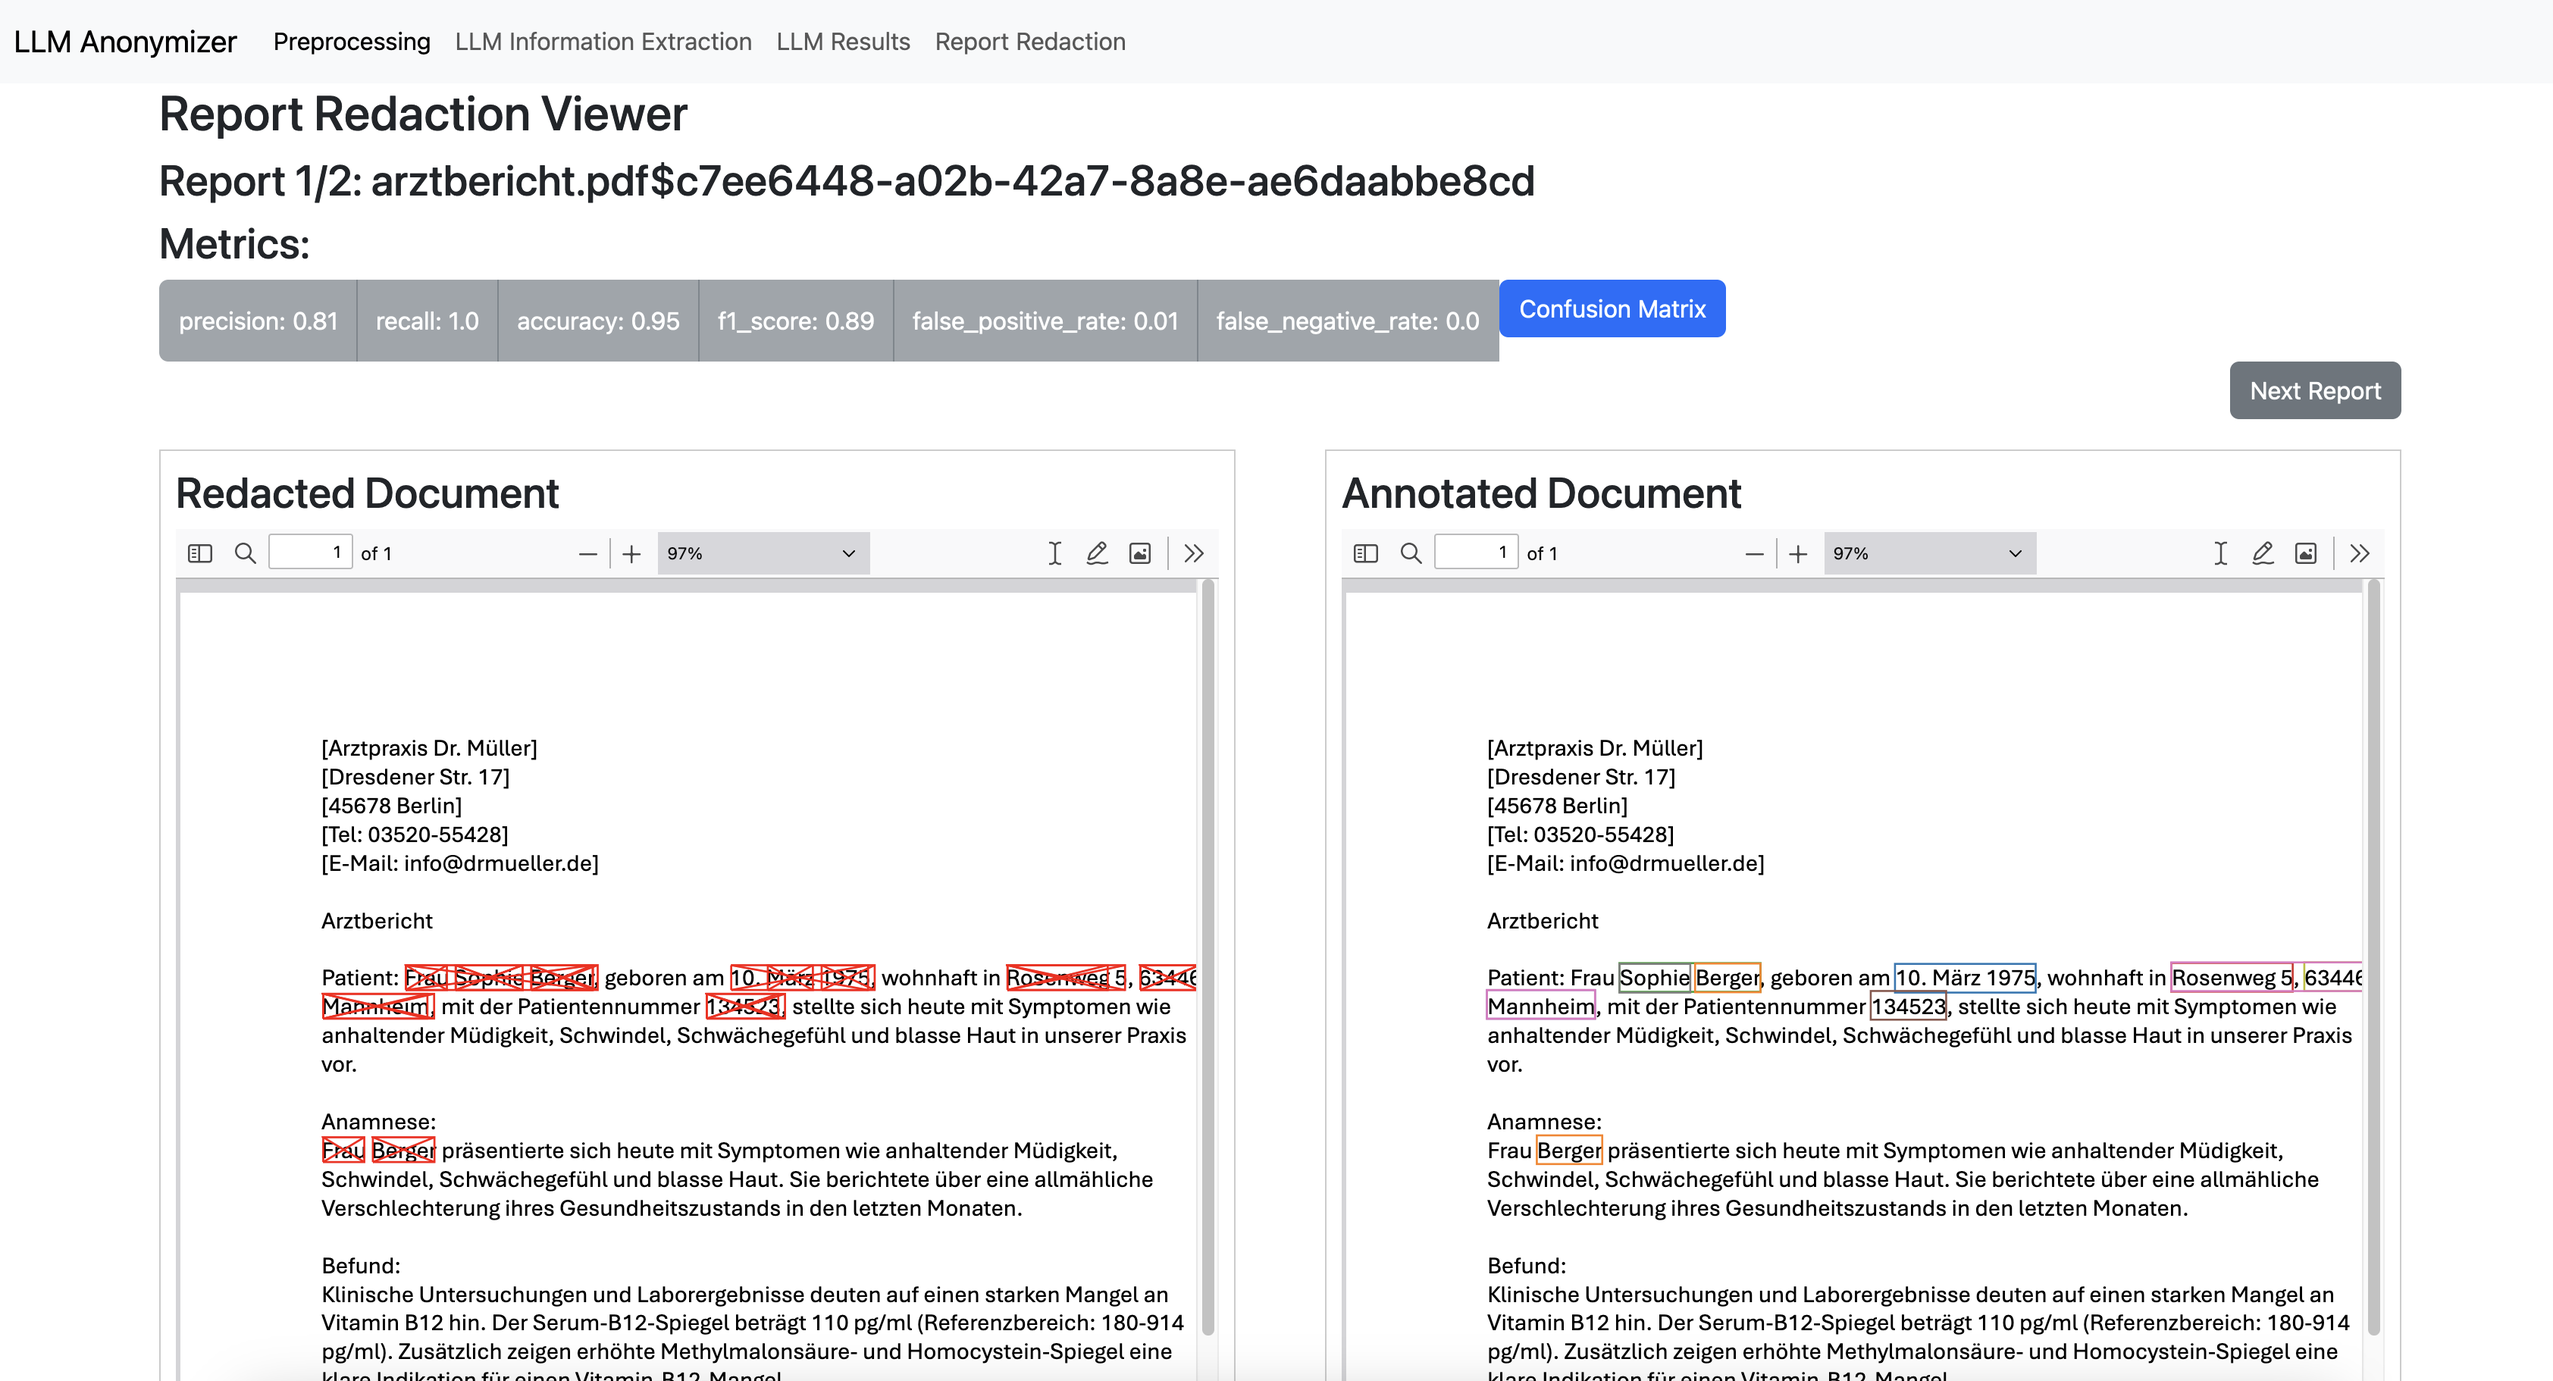
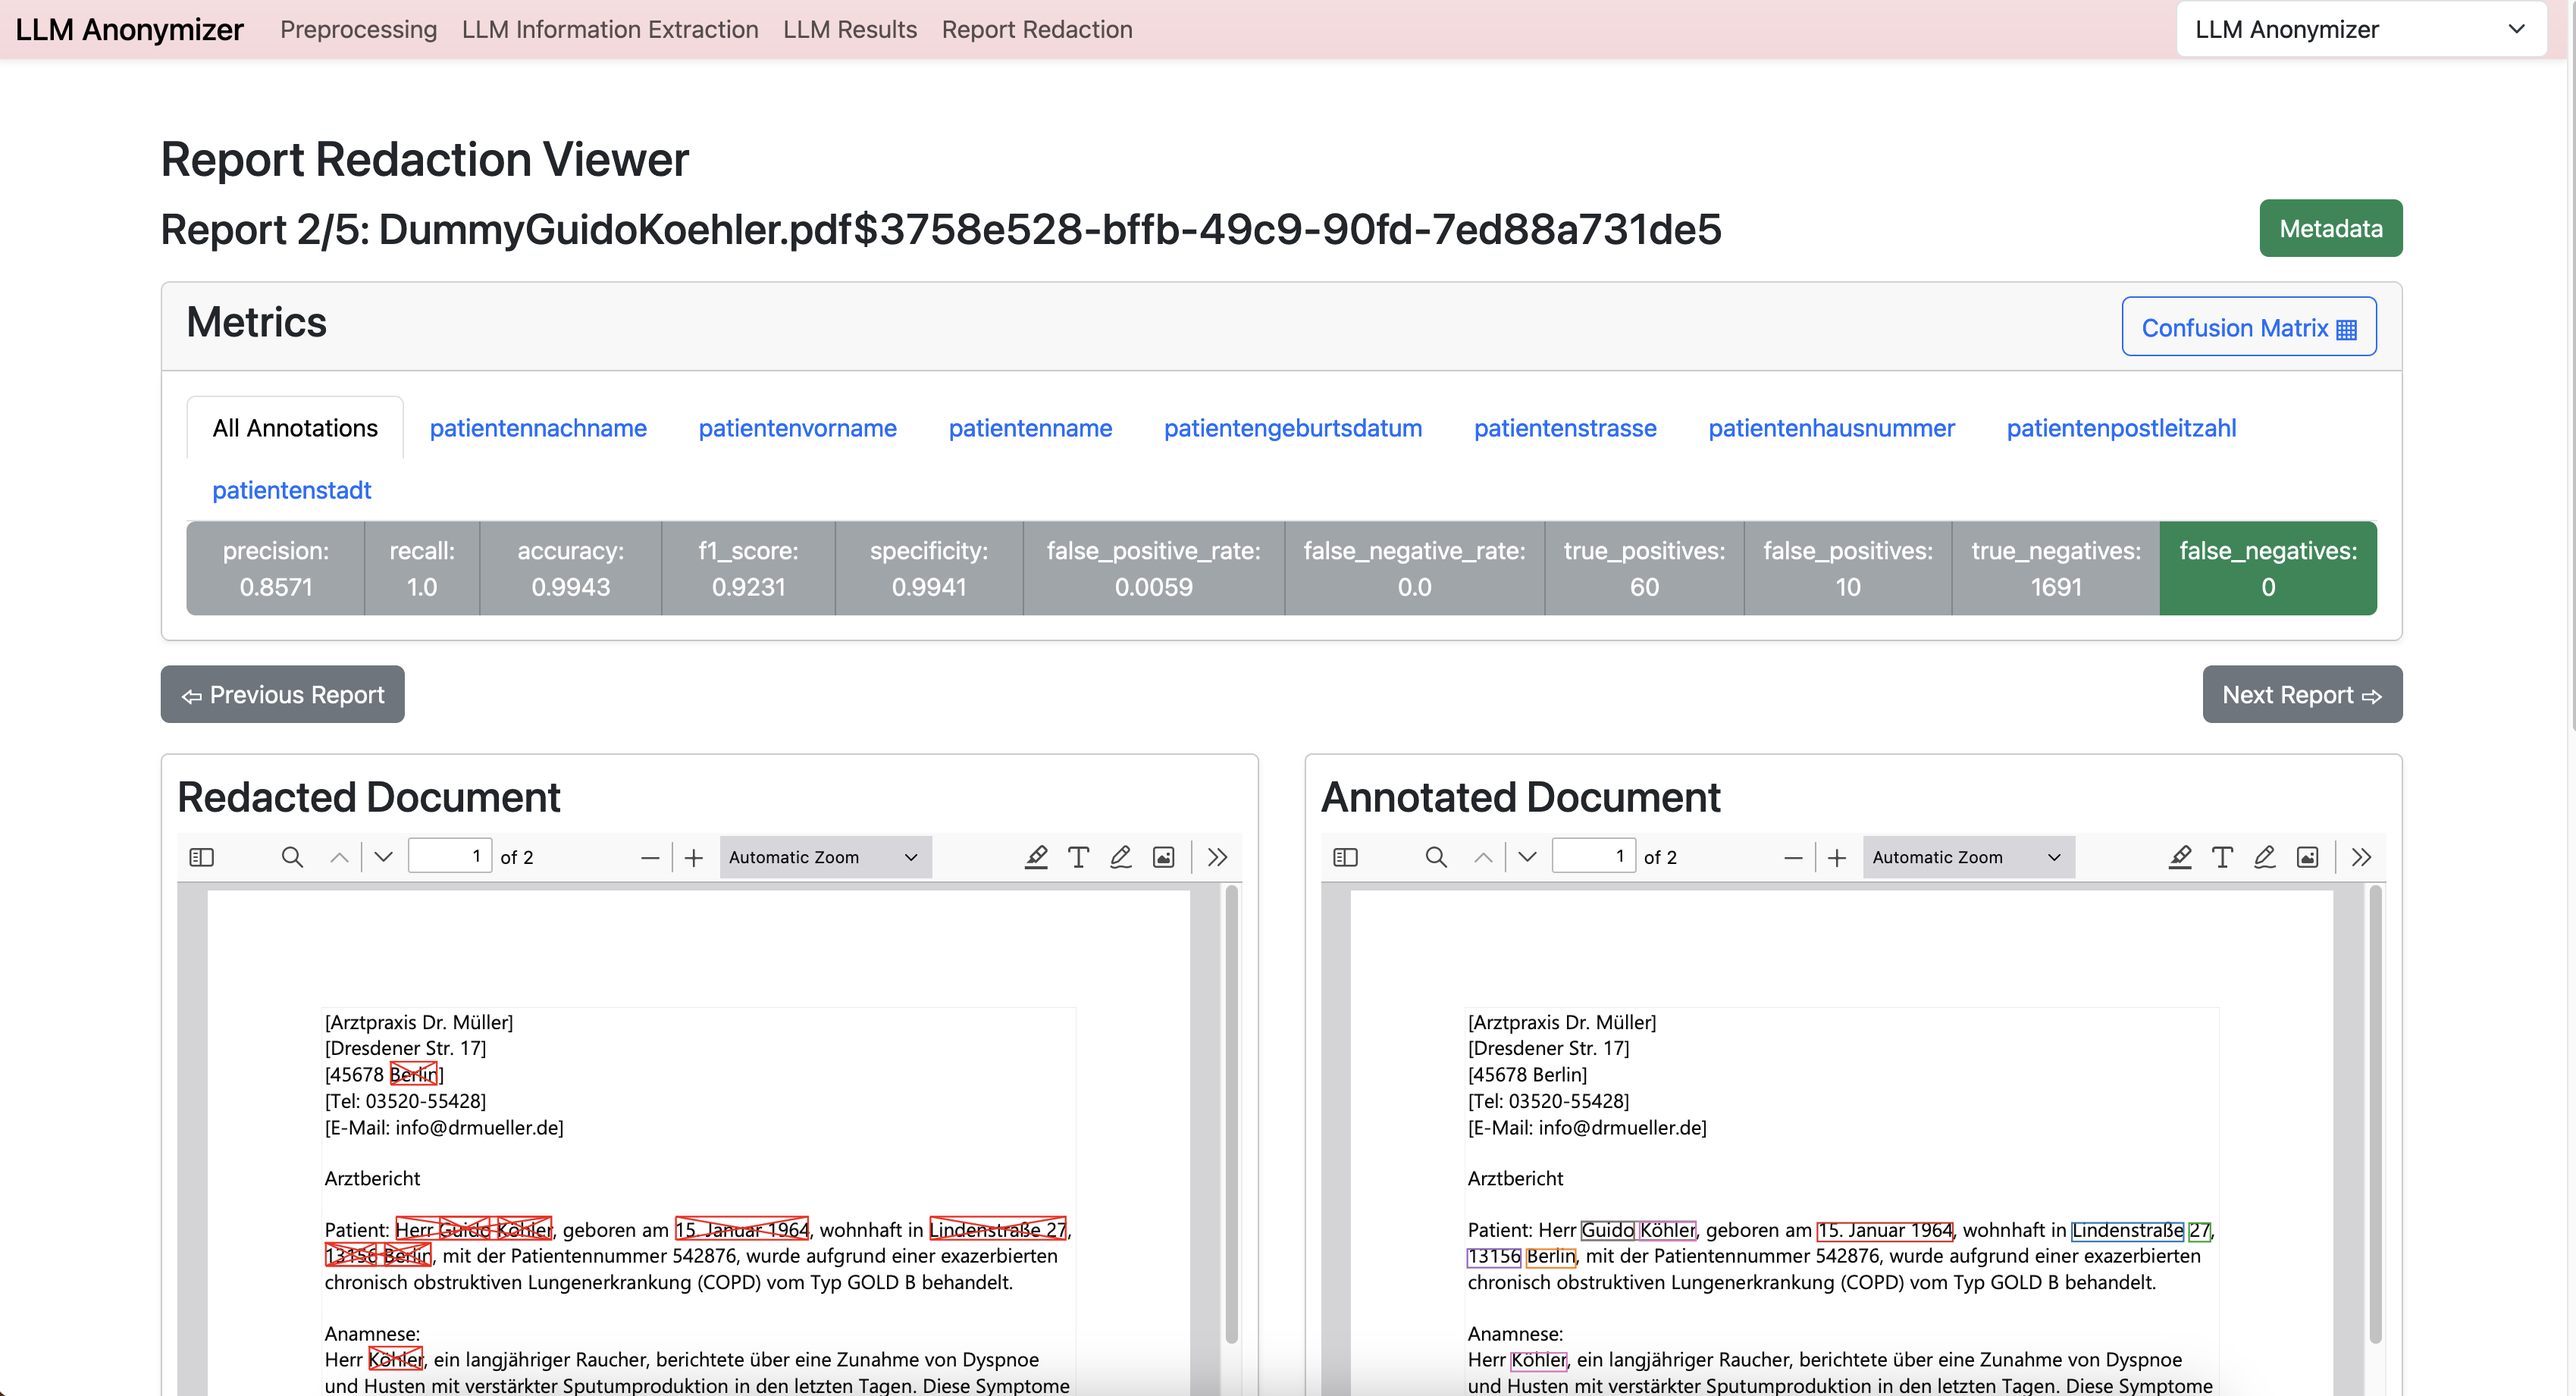
Update README images & README

diff --git a/README.md b/README.md
@@ -12,6 +12,10 @@ Features:
 - Matches the extracted personal information in the reports using a fuzzy matching algorithm based on the Levenshtein distance
 - Compare documents and calculate metrics using annotated pdf files ([Inception](https://inception-project.github.io/))
 
+New:
+
+Information Extraction using LLMs and Calculate Metrics on Label-basis
+
 ![Redaction View of the Tool. Side-by-side documents, left side original, right side redacted view](image_redaction_view.png)
 
 ## Examples
